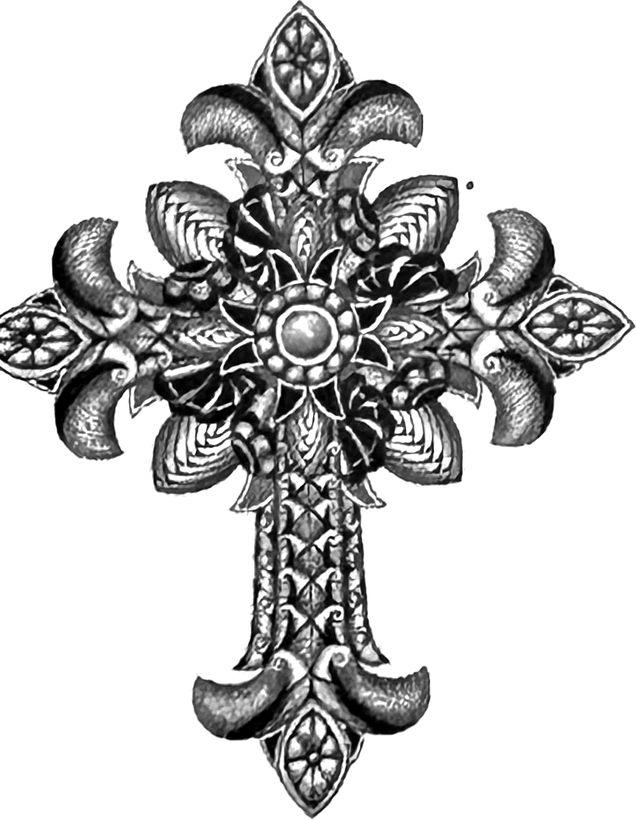
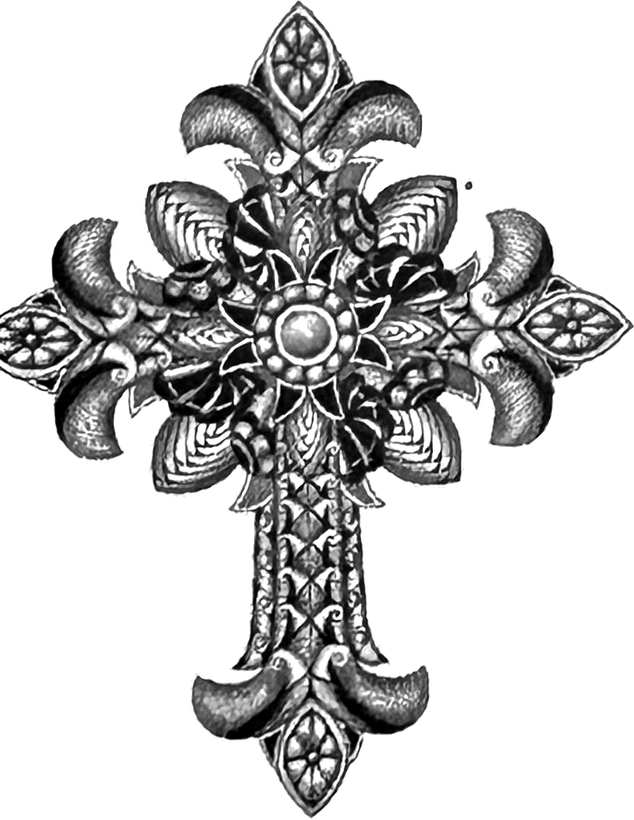
Add the last four General Prayers from the booklet
St. Michael, the Guardian Angel, the Holy Spirit and Single Persons —
pages 21 to 23, which the page itself had been promising in a footnote.
That note is gone now; the section is complete.

Transcribed to the page's own conventions rather than the booklet's: the
printed text capitalises divine pronouns and this book does not.

They are headings, so each one becomes a unit the reader can add to an
office. The existing headings keep their ids, so arrangements already
saved still resolve.

(cherry picked from commit f6d9a18ec1905615ae08d7a463f85387197dccb6)

diff --git a/pb-general.html b/pb-general.html
@@ -44,7 +44,7 @@ var tc=document.getElementById("tc");if(tc)tc.setAttribute("content",bg);})();
 <div class="scroll">
 <main class="book">
 <div class="page-back"><a class="res-back" href="prayerbook.html"><svg class="res-back__i" viewBox="0 0 24 24" width="16" height="16" fill="none" stroke="currentColor" stroke-width="2" stroke-linecap="round" stroke-linejoin="round" aria-hidden="true"><path d="M15 18l-6-6 6-6"/></svg><span>Prayer Book</span></a></div><section class="divider"><span class="cross"><svg viewBox="0 0 120 200" fill="currentColor" aria-hidden="true"><rect x="54" y="14" width="12" height="172"/><rect x="42" y="40" width="36" height="9"/><rect x="22" y="80" width="76" height="12"/><polygon points="30,132 90,150 90,161 30,143"/></svg></span><h1>General Prayers</h1><figure class="art art-rule" role="img" aria-label="Ornamental rule"><svg viewBox="0 0 240 18" aria-hidden="true" preserveAspectRatio="xMidYMid meet"><g stroke="currentColor" stroke-width="2" fill="currentColor"><line x1="14" y1="9" x2="100" y2="9"/><line x1="140" y1="9" x2="226" y2="9"/><circle cx="14" cy="9" r="3" stroke="none"/><circle cx="226" cy="9" r="3" stroke="none"/><circle cx="104" cy="9" r="2" stroke="none"/><circle cx="136" cy="9" r="2" stroke="none"/><polygon points="120,1 129,9 120,17 111,9" stroke="none"/></g></svg></figure></section>
-<details class="page-contents"><summary>Contents<svg viewBox="0 0 24 24" width="13" height="13" fill="none" stroke="currentColor" stroke-width="2.4" stroke-linecap="round" stroke-linejoin="round" aria-hidden="true"><path d="M6 9l6 6 6-6"/></svg></summary><nav aria-label="On this page"><a href="#j1">Act of Faith</a><a href="#j2">Act of Hope</a><a href="#j3">Act of Love</a><a href="#j4">For Faith, Hope and Love</a><a href="#j5">The Jesus Prayer</a><a href="#j6">For Service</a><a href="#j7">For the Parish</a><a href="#j8">For Patience</a><a href="#j9">For Missions</a><a href="#j10">For a Sick Person</a><a href="#j11">For the Departed</a><a href="#j12">A Parent&rsquo;s Prayer</a><a href="#j13">For a Husband or Wife</a><a href="#j14">For a Home</a><a href="#j15">For Those of Advanced Years</a></nav></details>
+<details class="page-contents"><summary>Contents<svg viewBox="0 0 24 24" width="13" height="13" fill="none" stroke="currentColor" stroke-width="2.4" stroke-linecap="round" stroke-linejoin="round" aria-hidden="true"><path d="M6 9l6 6 6-6"/></svg></summary><nav aria-label="On this page"><a href="#j1">Act of Faith</a><a href="#j2">Act of Hope</a><a href="#j3">Act of Love</a><a href="#j4">For Faith, Hope and Love</a><a href="#j5">The Jesus Prayer</a><a href="#j6">For Service</a><a href="#j7">For the Parish</a><a href="#j8">For Patience</a><a href="#j9">For Missions</a><a href="#j10">For a Sick Person</a><a href="#j11">For the Departed</a><a href="#j12">A Parent&rsquo;s Prayer</a><a href="#j13">For a Husband or Wife</a><a href="#j14">For a Home</a><a href="#j15">For Those of Advanced Years</a><a href="#j16">Prayer to St. Michael</a><a href="#j17">Prayer to a Guardian Angel</a><a href="#j18">Prayer to the Holy Spirit</a><a href="#j19">Prayer for Single Persons</a></nav></details>
 <p class="res-intro">A gathering of prayers for the needs and seasons of a life &mdash; to be added to any of the daily offices, or prayed on their own.</p>
 <h2 class="subhead" id="j1">Act of Faith</h2>
 <p><span class="dropcap gilt">M</span><span class="sc">Y GOD</span>, I believe in thee, and all thy Church doth teach, because thou hast said it, and thy word is true.</p>
@@ -77,7 +77,14 @@ var tc=document.getElementById("tc");if(tc)tc.setAttribute("content",bg);})();
 <p>Visit, we beseech thee, O Lord, this habitation, and drive far from it all the snares of the enemy. Let thy holy angels dwell herein to preserve us in peace, and let thy blessing be ever upon us; through Jesus Christ our Lord. Amen.</p>
 <h2 class="subhead" id="j15">For Those of Advanced Years</h2>
 <p>Heavenly Father, whose gift is length of days: help us to make noble use of mind and body in our advancing years. As thou hast pardoned our transgressions, sift the ingatherings of our memory that evil may grow dim and good may shine forth. We bless thee for thy gifts, and especially for thy presence and the love of friends in heaven and earth. Grant us new ties of friendship, new opportunities for service, joy in the growth and happiness of children, sympathy with those who bear the world&rsquo;s burdens, clear thought and quiet faith. Teach us to bear infirmities with cheerful patience. Keep us from narrow pride in outgrown ways, blind eyes that will not see the good of change, impatient judgements of the methods and experiments of others. Let thy peace rule our spirits, through all the trials of our waning powers. Take from us all fear of death, and all despair or undue love of life, that with glad hearts at rest in thee we may await thy will concerning us; through Jesus Christ our Lord. Amen.</p>
-<p class="res-foot">The booklet&rsquo;s General Prayers run on for a few more pages &mdash; the rest, beginning with the Prayer to St. Michael, are still to be added.</p><nav class="seqnav" aria-label="In this prayer book"><a class="seq seq-prev" href="pb-evening.html" rel="prev"><svg class="seq-i" viewBox="0 0 24 24" width="18" height="18" fill="none" stroke="currentColor" stroke-width="2" stroke-linecap="round" stroke-linejoin="round" aria-hidden="true"><path d="M15 6l-6 6 6 6"/></svg><span class="seq-b"><span class="seq-k">Previous</span><span class="seq-t">Evening Prayers</span></span></a><span class="seq-gap"></span></nav><figure class="art art-cross art-foot" role="img" aria-label="Orthodox cross"><svg viewBox="0 0 120 200" fill="currentColor" aria-hidden="true"><rect x="54" y="14" width="12" height="172"/><rect x="42" y="40" width="36" height="9"/><rect x="22" y="80" width="76" height="12"/><polygon points="30,132 90,150 90,161 30,143"/></svg></figure>
+<h2 class="subhead" id="j16">Prayer to St. Michael</h2>
+<p>Holy Michael Archangel, defend us in the day of battle; be our safeguard against the wickedness and snares of the devil. May God rebuke him, we humbly pray; and do thou, Prince of the heavenly host, by the power of God, thrust down to hell Satan and all wicked spirits who wander through the world for the ruin of souls. Amen.</p>
+<h2 class="subhead" id="j17">Prayer to a Guardian Angel</h2>
+<p>O holy guardian angel, to whose care God, in his mercy, hath committed me, stand by me now and at my last hour; protect me against all the powers of darkness; defend me from all my enemies, and conduct my soul to the mansions of bliss. Amen.</p>
+<h2 class="subhead" id="j18">Prayer to the Holy Spirit</h2>
+<p>O Heavenly King, O Comforter, the Spirit of truth, who art in all places and fillest all things, treasury of good things and giver of life, come and dwell in us, cleanse us from every stain, and save our souls, O gracious Lord. Amen.</p>
+<h2 class="subhead" id="j19">Prayer for Single Persons</h2>
+<p>O Blessed Lord, who hast set up for us an example of ideal purity, strengthen me, I beseech thee, when temptation besets me, and when strong passions seek to overwhelm me, that I may remain constant in virtue and innocent in thought, word, and deed, doing such things only as are well pleasing unto thee; grant me growth in wisdom and understanding, that I may serve thee all the days of my life; through Jesus Christ our Lord. Amen.</p><nav class="seqnav" aria-label="In this prayer book"><a class="seq seq-prev" href="pb-evening.html" rel="prev"><svg class="seq-i" viewBox="0 0 24 24" width="18" height="18" fill="none" stroke="currentColor" stroke-width="2" stroke-linecap="round" stroke-linejoin="round" aria-hidden="true"><path d="M15 6l-6 6 6 6"/></svg><span class="seq-b"><span class="seq-k">Previous</span><span class="seq-t">Evening Prayers</span></span></a><span class="seq-gap"></span></nav><figure class="art art-cross art-foot" role="img" aria-label="Orthodox cross"><svg viewBox="0 0 120 200" fill="currentColor" aria-hidden="true"><rect x="54" y="14" width="12" height="172"/><rect x="42" y="40" width="36" height="9"/><rect x="22" y="80" width="76" height="12"/><polygon points="30,132 90,150 90,161 30,143"/></svg></figure>
 </main>
 </div>
 <nav class="tabbar" aria-label="Primary">

diff --git a/build.py b/build.py
@@ -3088,8 +3088,25 @@ _pb_page("pb-general",
     'powers. Take from us all fear of death, and all despair or undue love of life, that with glad '
     'hearts at rest in thee we may await thy will concerning us; through Jesus Christ our Lord. '
     'Amen.</p>',
-    '<p class="res-foot">The booklet&rsquo;s General Prayers run on for a few more pages &mdash; '
-    'the rest, beginning with the Prayer to St. Michael, are still to be added.</p>')
+    '<h2 class="subhead">Prayer to St. Michael</h2>',
+    '<p>Holy Michael Archangel, defend us in the day of battle; be our safeguard against the '
+    'wickedness and snares of the devil. May God rebuke him, we humbly pray; and do thou, Prince '
+    'of the heavenly host, by the power of God, thrust down to hell Satan and all wicked spirits '
+    'who wander through the world for the ruin of souls. Amen.</p>',
+    '<h2 class="subhead">Prayer to a Guardian Angel</h2>',
+    '<p>O holy guardian angel, to whose care God, in his mercy, hath committed me, stand by me now '
+    'and at my last hour; protect me against all the powers of darkness; defend me from all my '
+    'enemies, and conduct my soul to the mansions of bliss. Amen.</p>',
+    '<h2 class="subhead">Prayer to the Holy Spirit</h2>',
+    '<p>O Heavenly King, O Comforter, the Spirit of truth, who art in all places and fillest all '
+    'things, treasury of good things and giver of life, come and dwell in us, cleanse us from '
+    'every stain, and save our souls, O gracious Lord. Amen.</p>',
+    '<h2 class="subhead">Prayer for Single Persons</h2>',
+    '<p>O Blessed Lord, who hast set up for us an example of ideal purity, strengthen me, I '
+    'beseech thee, when temptation besets me, and when strong passions seek to overwhelm me, that '
+    'I may remain constant in virtue and innocent in thought, word, and deed, doing such things '
+    'only as are well pleasing unto thee; grant me growth in wisdom and understanding, that I may '
+    'serve thee all the days of my life; through Jesus Christ our Lord. Amen.</p>')
 
 
 def prayerbook_hub():
